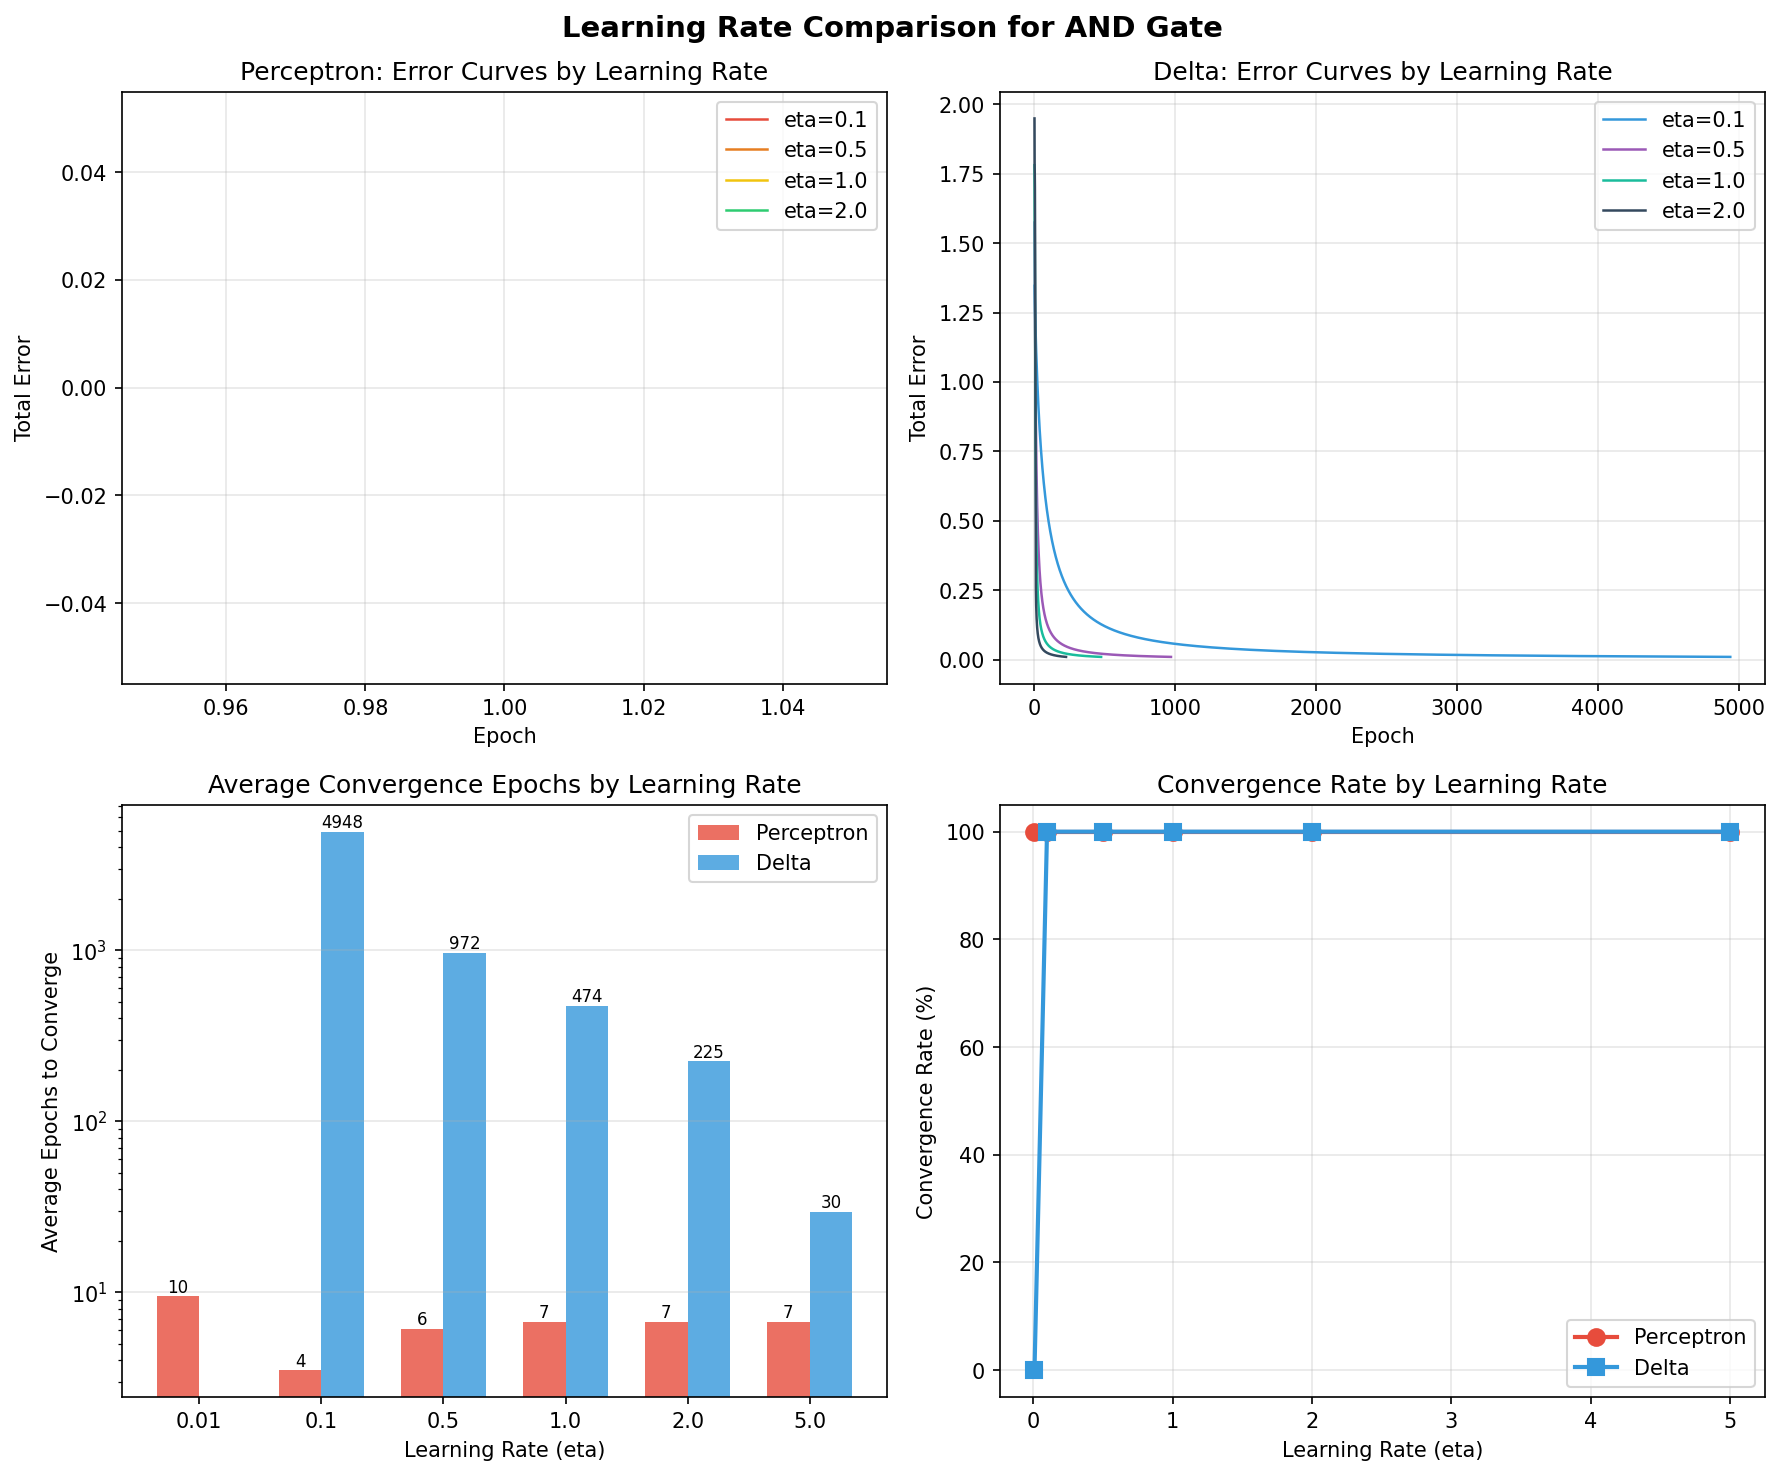
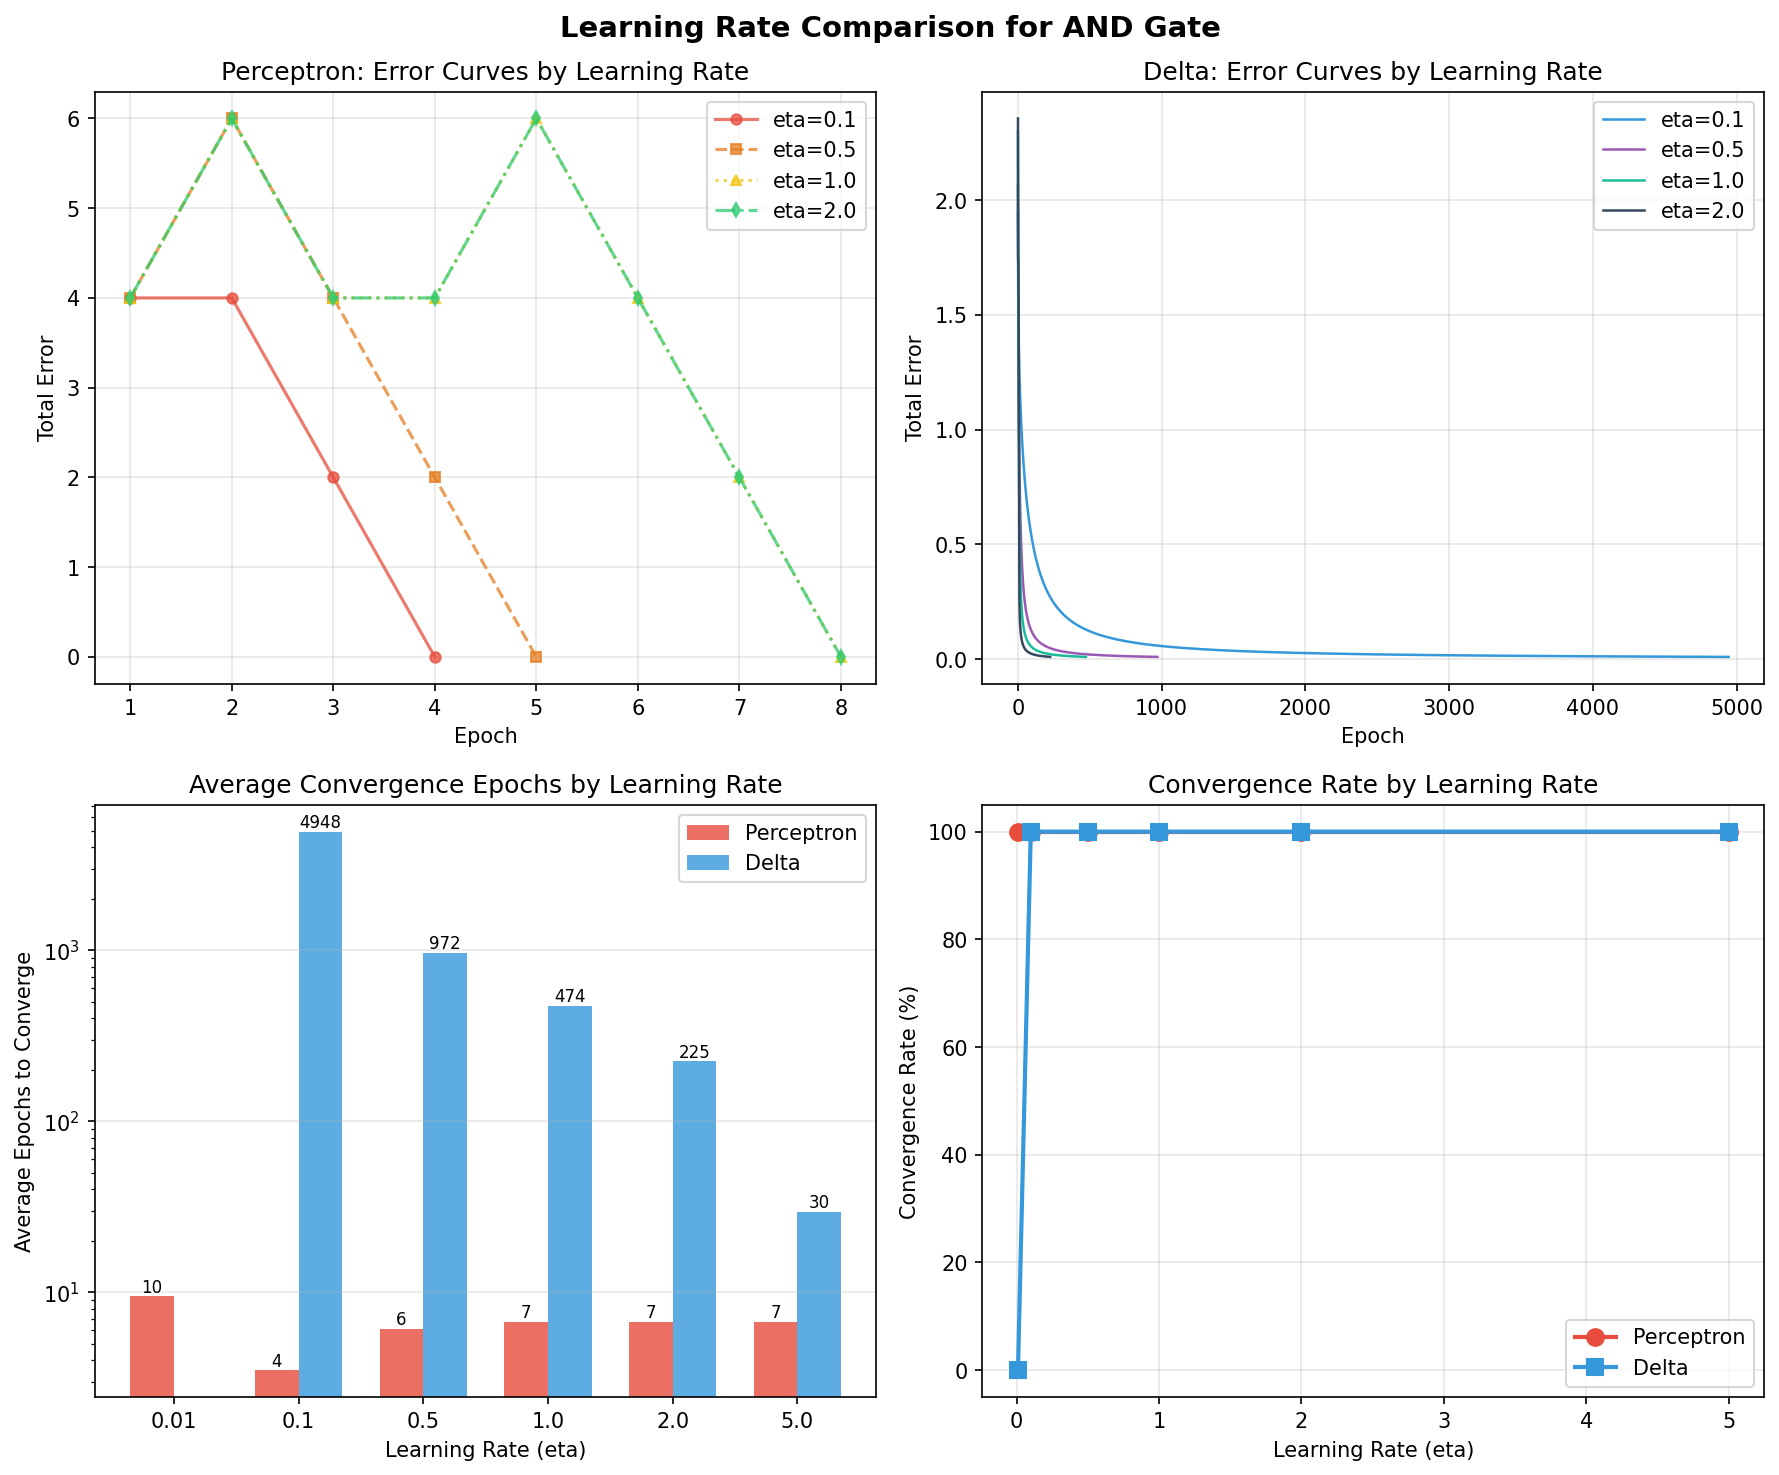
fix: 学習率・重み初期化の可視化で曲線が重なる/潰れる問題を修正
- eta_comparison: seed=42で1エポック収束して線が消える問題に対し seed=4 に変更
- plot_eta: 線種とマーカーを分け、eta=1.0と2.0の完全重なりを識別可能に
- plot_weight_init: x軸対数スケール化と線種分離で短い曲線が見えるように

diff --git a/TP1/Practice/Part2/plot_weight_init.py b/TP1/Practice/Part2/plot_weight_init.py
@@ -20,17 +20,21 @@ fig, axes = plt.subplots(2, 2, figsize=(12, 10))
 ax = axes[0][0]
 detail_ranges = [0.01, 0.1, 0.5, 2.0, 5.0]
 colors = ['#2ecc71', '#3498db', '#e67e22', '#e74c3c', '#9b59b6']
+styles = ['o-', 's--', '^:', 'd-.', 'v-']
 for i, r in enumerate(detail_ranges):
     try:
         ep, err = read_csv(f'winit_delta_{r:.2f}.csv')
-        ax.plot(ep, err, color=colors[i], linewidth=1.2, label=f'range=[-{r}, {r}]')
+        ax.plot(ep, err, styles[i], color=colors[i], linewidth=1.3,
+                markersize=3, markevery=max(1, len(ep)//20),
+                alpha=0.8, label=f'range=[-{r}, {r}]')
     except FileNotFoundError:
         pass
 ax.set_title('Delta: Error Curves by Init Range')
-ax.set_xlabel('Epoch')
+ax.set_xlabel('Epoch (log scale)')
 ax.set_ylabel('Total Error')
+ax.set_xscale('log')
 ax.legend(fontsize=9)
-ax.grid(True, alpha=0.3)
+ax.grid(True, alpha=0.3, which='both')
 
 # --- Plot 2: Same but zoomed to first 50 epochs ---
 ax = axes[0][1]
@@ -39,7 +43,9 @@ for i, r in enumerate(detail_ranges):
         ep, err = read_csv(f'winit_delta_{r:.2f}.csv')
         ep_z = [e for e in ep if e <= 50]
         err_z = err[:len(ep_z)]
-        ax.plot(ep_z, err_z, color=colors[i], linewidth=1.2, label=f'range=[-{r}, {r}]')
+        ax.plot(ep_z, err_z, styles[i], color=colors[i], linewidth=1.3,
+                markersize=4, markevery=max(1, len(ep_z)//20),
+                alpha=0.8, label=f'range=[-{r}, {r}]')
     except FileNotFoundError:
         pass
 ax.set_title('Delta: Error Curves (First 50 Epochs)')

diff --git a/TP1/Practice/Part1/plot_eta.py b/TP1/Practice/Part1/plot_eta.py
@@ -22,10 +22,12 @@ colors_d = ['#3498db', '#9b59b6', '#1abc9c', '#34495e']
 
 # --- Plot 1: Perceptron error curves ---
 ax = axes[0][0]
+styles_p = ['o-', 's--', '^:', 'd-.']
 for i, eta in enumerate(etas):
     try:
         ep, err = read_csv(f'eta_perceptron_{eta:.2f}.csv')
-        ax.plot(ep, err, color=colors_p[i], linewidth=1.2, label=f'eta={eta}')
+        ax.plot(ep, err, styles_p[i], color=colors_p[i], linewidth=1.5,
+                markersize=5, alpha=0.75, label=f'eta={eta}')
     except FileNotFoundError:
         pass
 ax.set_title('Perceptron: Error Curves by Learning Rate')

diff --git a/TP1/Practice/Part1/eta_comparison.c b/TP1/Practice/Part1/eta_comparison.c
@@ -144,13 +144,13 @@ int main()
         sprintf(filename, "eta_perceptron_%.2f.csv", detail_etas[e]);
         fp = fopen(filename, "w");
         fprintf(fp, "epoch,error\n");
-        run_perceptron(detail_etas[e], 42, fp);
+        run_perceptron(detail_etas[e], 4, fp);
         fclose(fp);
 
         sprintf(filename, "eta_delta_%.2f.csv", detail_etas[e]);
         fp = fopen(filename, "w");
         fprintf(fp, "epoch,error\n");
-        run_delta(detail_etas[e], 42, fp);
+        run_delta(detail_etas[e], 4, fp);
         fclose(fp);
     }
 
